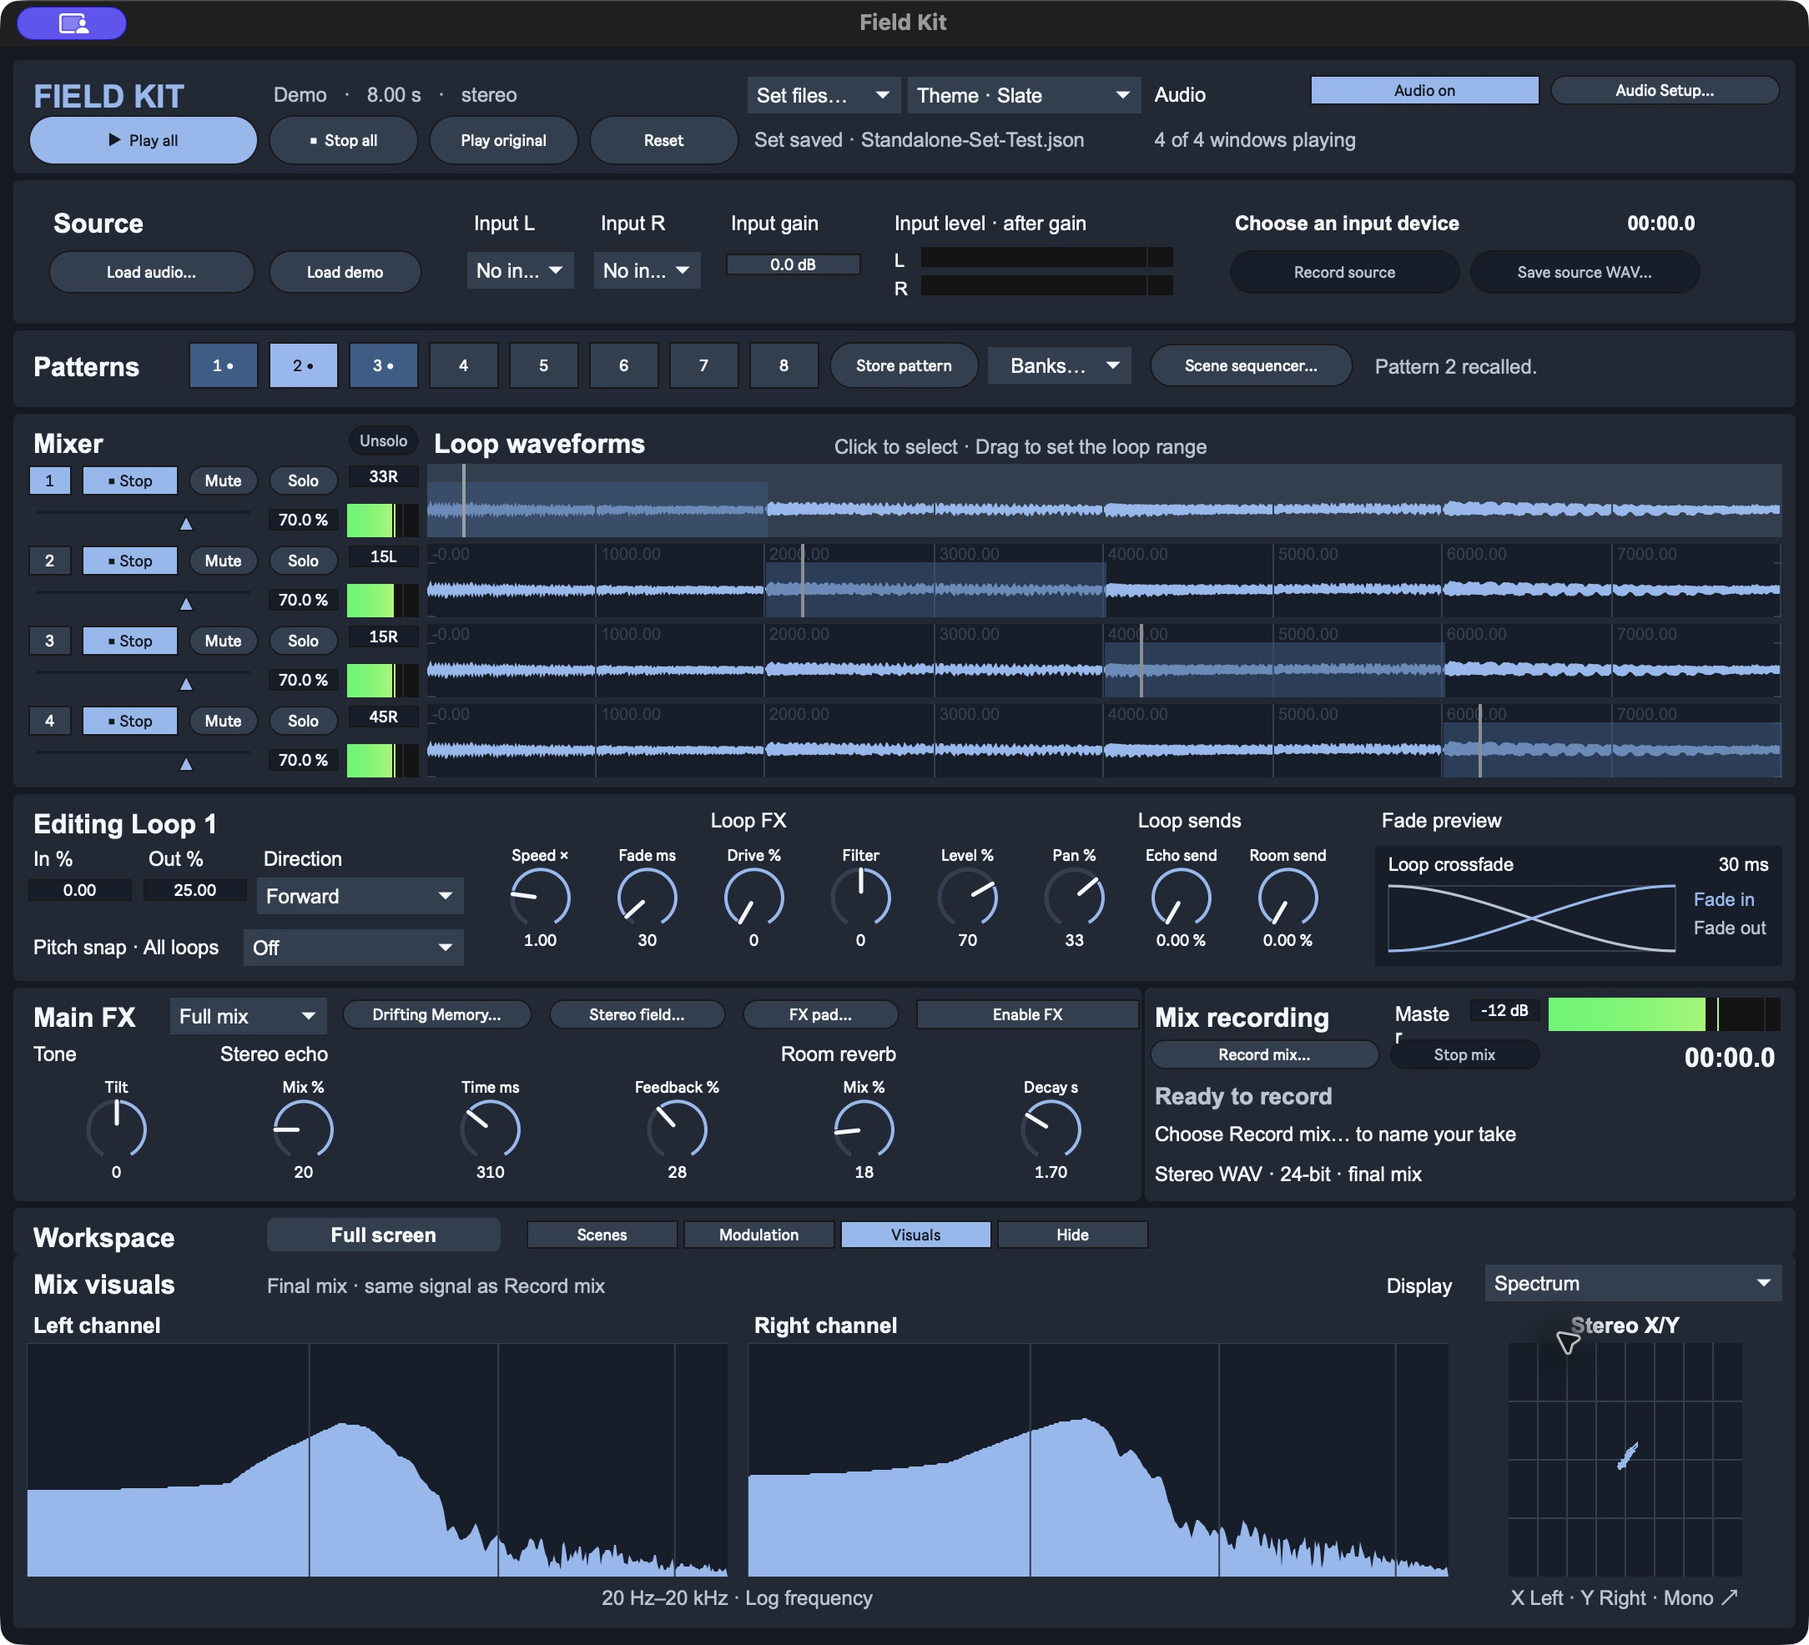
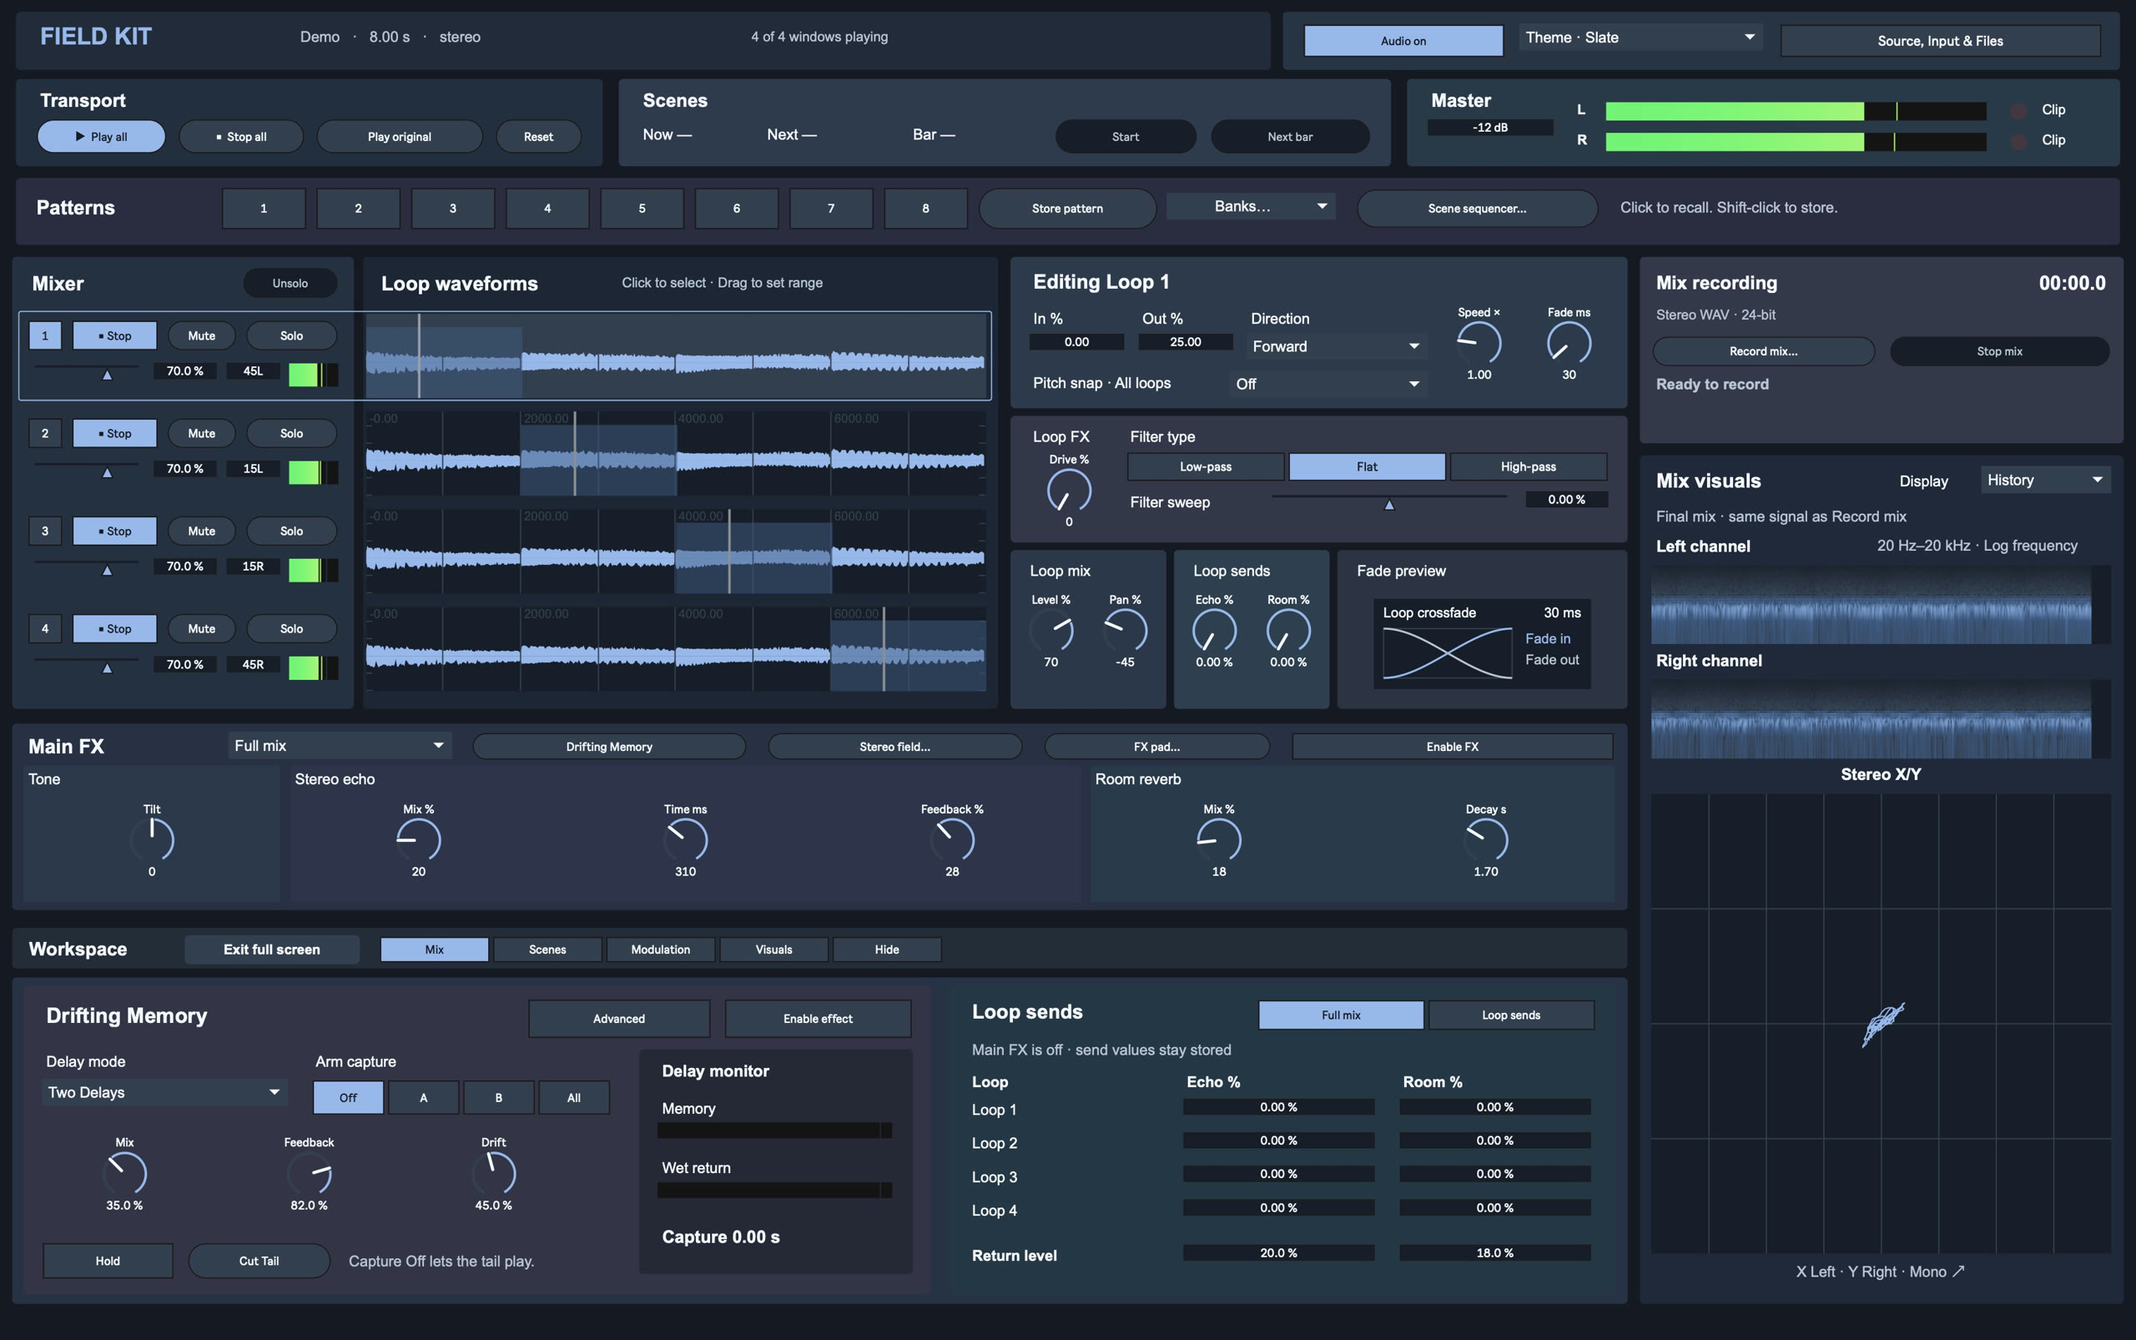
Document the Field Kit v0.8.0 release

diff --git a/README.md b/README.md
@@ -7,9 +7,11 @@ FIELD KIT is a Max instrument that turns an audio file or a live recording into 
 - **[Download the latest Max patch](https://github.com/modelcollapse/field-kit/releases/latest/download/field-kit-max.zip).** Unzip it and double-click **Open FIELD KIT.maxpat** in Max 9. **START HERE.txt** has the quick instructions. Keep **Support** and the companion Max patches beside the launcher.
 - **[Download the latest standalone macOS app](https://github.com/modelcollapse/field-kit/releases/latest/download/field-kit-macos.zip).** Unzip it and open **Field Kit.app**. Max is not required.
 
-The v0.7.0 standalone is ad hoc signed and is not notarized by Apple. macOS may block the first launch of a browser download. [Apple’s explanation of first launch alerts](https://support.apple.com/en-us/102445). [See the standalone running the demo with live Spectrum and Stereo X/Y](docs/screenshots/field-kit-standalone.jpg).
+The v0.8.0 standalone includes Apple silicon and Intel binaries. It is ad hoc signed and has no Apple notarization. macOS may show a first launch alert. [Apple’s explanation of first launch alerts](https://support.apple.com/en-us/102445).
 
-[See what's new in v0.7.0](CHANGELOG.md).
+[See what's new in v0.8.0](CHANGELOG.md).
+
+![Field Kit standalone in full screen with four loops playing, the docked loop editor, and live stereo visuals beside the mix recorder](docs/screenshots/field-kit-standalone.jpg)
 
 The eight-second demo loads on startup. Click **Play all** to turn on audio and start the four loops, or click one window's play button to hear it on its own. Open **Source, Input & Files** and choose **Load audio…** to load a sample and start its four loops as soon as the file is ready. The same drawer holds audio setup, source recording, and Set files. **Enable audio** starts the engine without starting playback.
 
@@ -17,13 +19,15 @@ Choose **Slate**, **Moss**, or **Ember** from the **Theme** menu in the header. 
 
 In the selected loop editor, choose **Low-pass** to cut highs, **High-pass** to cut lows, or **Flat** to center the filter. Switch between Low-pass and High-pass to keep the same strength, or drag **Filter sweep** for a continuous move through all three. Patterns, Sets, and LFO routes still use each loop’s filter sweep.
 
-![Field Kit playing four demo loops, with the selected loop's fade preview above the final mix spectrograms and stereo scope](docs/screenshots/field-kit-overview.png)
+![The windowed Mix workspace with four demo waveforms, the selected loop editor, Main FX, mix recording, and Drifting Memory](docs/screenshots/field-kit-overview.png)
 
 ## Record a source
 
 1. Open **Source, Input & Files**, select your interface in **Audio Setup…**, and click **Enable audio**. In **Input**, choose the left and right channels. Select the same channel on both sides for a mono source.
 2. Set the linked input gain from −60 to +18 dB. It starts at 0 dB. The two peak meters show the levels after gain, with peak hold and a red overload indicator.
 3. Click **Record source** to capture up to 60 seconds. The red **RECORDING** badge and timer show when audio is being captured. **Stop source** loads the take into all four loops. Use **Save source WAV…** before saving a Set that uses the take or replacing the source.
+
+![The expanded Source, Input & Files drawer in the full-screen workspace](docs/screenshots/field-kit-source-drawer.jpg)
 
 ## Play and shape the loops
 
@@ -61,7 +65,7 @@ The scene clock controls when patterns change. Set the tempo and meter before yo
 
 The scene strip at the top, between **Transport** and **Master**, shows the current scene, the next playable scene, and progress through the current scene’s bars. Use **Start** or **Stop** and **Next bar** directly from the strip.
 
-![The scene sequencer running at 112 BPM with four steps lasting four or eight bars each](docs/screenshots/field-kit-scenes.png)
+![The scene sequencer running three four-bar steps at 112 BPM, with the current scene, next scene, and bar shown above the mixer](docs/screenshots/field-kit-scenes.png)
 
 Use the workspace selector to switch between **Mix**, **Scenes**, **Modulation**, and **Visuals**, or **Hide** to collapse the lower panel. **Mix** opens by default. On wide displays, **Full screen** puts **Mix recording** and **Mix visuals** in a right column that stays visible as you switch workspaces. Select **Visuals** there to collapse the lower panel and focus on the analyzers.
 
@@ -69,13 +73,13 @@ Use the workspace selector to switch between **Mix**, **Scenes**, **Modulation**
 
 ## Patch modulation
 
-Choose **LFO 1–8** from the dropdown and set its rate and shape. Choose a loop to modulate its range, speed, direction, crossfade, drive, filter, level, pan, or Echo and Room sends. Choose **Global** for master level, input gain, Main FX, and Drifting Memory. Pick a destination, then turn **Depth** or click **Add route** to start at +25%. Negative depth inverts the LFO. The **active routes** menu jumps to a route for the selected LFO. **Applied value** shows what the destination receives while audio is on.
+Each of the eight LFOs can reach any of the 66 destinations. Choose a loop to modulate its range, speed, direction, crossfade, drive, filter, level, pan, or Echo and Room sends. Choose **Global** for master level, input gain, Main FX, and Drifting Memory. Pick a destination, then turn **Depth** or click **Add route** to start at +25%. Negative depth inverts the LFO. The **active routes** menu jumps to a route for the selected LFO. **Applied value** shows what the destination receives while audio is on.
 
 In **Loop sends** mode, the per-loop send routes control which loops feed Echo and Room. In Drifting Memory, the HPF and LPF routes take effect in **Sweep**, and the timing routes take effect in **Rhythmic**. Older Sets and pattern banks keep their existing LFO assignments when opened.
 
 The lower-left graph shows one cycle of the selected LFO’s shape. Choose **Breakpoint** or click **Use curve** to edit that LFO’s custom curve. Click to add a point, drag to move it, or Shift-click to delete it. Each LFO keeps its curve when you switch shapes. The graph on the right shows the live signal when audio is on.
 
-![The modulation patchbay with a sine LFO routed to Loop 1's start and live feedback](docs/screenshots/field-kit-modulation.png)
+![A sine LFO routed to Global Drift mix at +25% depth with a live Applied value and signal graph](docs/screenshots/field-kit-modulation.png)
 
 ## Process and capture
 
@@ -85,7 +89,7 @@ During loop playback, click **Enable FX** to turn on tone, stereo echo, and room
 
 Open **FX pad…** and use the **X** and **Y** menus to pair Tone tilt, Echo mix, or Room mix. X starts on Echo mix and Y starts on Room mix. Picking the other axis’s effect swaps the pair. Drag right or up to increase the assigned value. Tone tilt moves from dark through neutral to bright. The pad and dials stay in sync.
 
-Click **Record**, drag across the FX pad, and release. **Play** loops the gesture using the effect pair you recorded. **Stop** holds the current values and **Clear** erases the gesture. Turn on **Enable FX** in the pad or the Main FX header to hear it. Both buttons control the same Tone, Echo, and Room switch. Gestures in both pads stay available while the patch is open. **Stop all**, resetting, or recalling a pattern stops gesture playback; Sets and patterns save control values but do not store gestures.
+Click **Record**, drag across the FX pad, and release. **Play** loops the gesture using the effect pair you recorded. **Stop** holds the current values and **Clear** erases the gesture. Turn on **Enable FX** in the pad or the Main FX header to hear it. Both buttons control the same Tone, Echo, and Room switch. **Close** hides either pad and lets its gestures keep playing. **Stop all**, resetting, or recalling a pattern stops gesture playback. Sets and patterns save control values. Gestures stay in the current session.
 
 | Stereo field | FX pad |
 | --- | --- |
@@ -96,6 +100,8 @@ Click **Record**, drag across the FX pad, and release. **Play** loops the gestur
 Click **Advanced** to show the **Time**, **Texture**, and **I/O** controls beside Drifting Memory. The **Drifting Memory** shortcut in Main FX opens the same view. Click **Hide advanced** to bring back Loop sends. The delay and its capture continue while you switch views.
 
 Use **Hold** to freeze what’s in memory. **Cut Tail** clears the captured audio and turns capture off while the dry mix keeps playing. To capture again, release **Hold** if it’s on and choose a capture bank.
+
+![Drifting Memory with live Memory and Wet return meters, Hold and Cut Tail, and the Advanced Time page](docs/screenshots/field-kit-drifting-memory.png)
 
 With audio enabled, click **Record mix…** and choose where to save the take. The red **RECORDING** indicator and timer show when capture is active. The recorder writes the final mix as a 24-bit stereo WAV at the audio device's current sample rate. **Stop all** lets the effects decay. Click **Stop mix** when the take is finished.
 
@@ -109,12 +115,13 @@ To build the standalone app, run `python3 scripts/prepare_max_project.py max bui
 
 See the [release checklist](docs/releasing.md) for building, testing, and publishing both downloads and their screenshots.
 
-Run the playback startup, input recording, pattern bank, curve editing, and Set writer tests with Node.js.
+Run the playback startup, input recording, pattern bank, scene timing, curve editing, and Set writer tests with Node.js.
 
 ```sh
 node tests/source_launch_verify.cjs
 node tests/input_record_verify.cjs
 node tests/pattern_bank_verify.cjs
+node tests/sequence_mix_verify.cjs
 node tests/curve_fade_verify.cjs
 node tests/set_writer_verify.cjs
 ```

diff --git a/docs/releasing.md b/docs/releasing.md
@@ -30,7 +30,7 @@ Ship the Max 9 patch and the standalone macOS app on the same GitHub release. Bu
    ```sh
    mkdir -p build/standalone-runtime
    cp build/standalone/{patchers,code,media}/* build/standalone-runtime/
-   bash scripts/package_macos_release.sh 0.7.0 \
+   bash scripts/package_macos_release.sh VERSION \
      "/path/to/verified-runtime.zip" "build/Field Kit.mxf" \
      build/standalone-runtime build/field-kit-macos.zip
    ```
@@ -42,12 +42,12 @@ Ship the Max 9 patch and the standalone macOS app on the same GitHub release. Bu
 
 Open **Open FIELD KIT.maxpat** from a clean extraction in Max. Then quit Max and launch **Field Kit.app** from its own clean extraction. Use the bundled demo and a disposable folder for recordings, Sets, and Banks.
 
-- [ ] Both builds launch to the presentation, load the demo, and run without missing files or startup errors. **Play all**, per-loop play/stop, **Play original**, and **Stop all** behave as expected. Verify both audio output channels on the available device, including headphones when present.
+- [ ] Both builds launch to the presentation, load the demo, and run without missing files or startup errors. **Play all**, per-loop play/stop, **Play original**, and **Stop all** behave as expected. Open a different WAV with **Load audio…** and confirm all four loops start when it is ready. Verify both audio output channels on the available device, including headphones when present.
 - [ ] Select a loop from its waveform and strip. Edit its bounds, direction, speed, and fade. Verify the fade preview, pitch snap, direct filter type selection and sweep, mixer level and pan, mute/unmute, and solo/unsolo. Recall a pattern to check that the selected loop shows its saved filter type and strength.
 - [ ] Open and close **Source, Input & Files** in windowed and full screen. Check that Transport, Scenes, and Master stay at the top and the selected loop editor stays beside the waveforms. Use **Audio Setup…** to select a real input, check channel selection, gain and meters, then record a source and save its WAV. Record a stereo mix WAV and check that it matches the separate L/R master meters. Verify that clipping one channel lights only its indicator.
-- [ ] Exercise both Main FX modes. Check that the **Mix** send matrix, loop editor, and Main FX controls agree. Open Drifting Memory's **Advanced** drawer from Mix and from Main FX. Check its three pages, pattern recall, and the return to Loop sends while delay audio continues. Check that **Hold** preserves memory and **Cut Tail** clears the wet signal and turns capture off while dry audio continues. Open **Stereo field** and **FX pad** and verify manual movement, FX axis selection, and record/play/stop/clear on both pads.
+- [ ] Exercise both Main FX modes. Check that the **Mix** send matrix, loop editor, and Main FX controls agree. Open Drifting Memory's **Advanced** drawer from Mix and from Main FX. Check its three pages, pattern recall, and the return to Loop sends while delay audio continues. Check that **Hold** preserves memory and **Cut Tail** clears the wet signal and turns capture off while dry audio continues. Open **Stereo field** and **FX pad** and verify manual movement, FX axis selection, and record/play/stop/clear on both pads. Enable FX in the pad and confirm Main FX stays in sync after closing and reopening it.
 - [ ] Store and recall patterns. Run a scene sequence with different bar lengths, **Next bar**, and **Repeat**. Confirm that the scene strip in Mix shows the same current scene, next scene, and bar count and can control the sequence. Save and reopen a Set and a Bank, and check an older fixture if available.
-- [ ] Route an LFO and confirm the target responds. Check Mix, Scenes, Modulation, Visuals, Hide, the section shades in all three themes, and entering and exiting full screen. Confirm Master and Mix recording have visibly separate backgrounds and the selected loop stands out across the mixer and waveform. Check live signal in both History and Spectrum and on the stereo scope.
+- [ ] Route LFOs to a loop, a loop send, Main FX, and Drifting Memory and confirm the effective value and audio respond. Check Mix, Scenes, Modulation, Visuals, Hide, the section shades in all three themes, and entering and exiting full screen. Confirm Master and Mix recording have visibly separate backgrounds and the selected loop stands out across the mixer and waveform. Check live signal in both History and Spectrum and on the stereo scope.
 - [ ] Record which macOS version, chip, and audio devices were tested and any limits of the verification. Resolve regressions before publishing.
 
 ## Review screenshots and publish

diff --git a/CHANGELOG.md b/CHANGELOG.md
@@ -1,6 +1,17 @@
-# Field Kit v0.7.0
+# Field Kit changelog
 
-## What’s new
+## v0.8.0
+
+- The loop editor sits beside the waveforms. Transport, scene cues, and Master stay at the top, and Source, Input & Files opens as a drawer. Slate, Moss, and Ember use distinct shades for each section.
+- On wide displays, full screen moves the mix recorder, both channel visuals, and the square stereo scope to the right. Master shows independent left and right meters and clip lights.
+- Drifting Memory sits in Mix with live Memory and Wet return meters, Hold, Cut Tail, and an Advanced drawer. Edit per-loop Echo and Room sends in the Mix matrix or the selected loop editor.
+- Choose Low-pass, Flat, or High-pass in the loop editor. Loading a new audio file starts all four loops as soon as it is ready.
+- Enable Main FX directly in the FX pad. Both gesture pads have a Close button and can continue playing gestures while closed.
+- Eight LFOs reach 66 destinations, including eight per-loop sends and 14 Drifting Memory controls. Older Sets and Banks keep their saved assignments.
+
+## v0.7.0
+
+### What’s new
 
 - **Performance workspace.** Switch between Scenes, Modulation, and Visuals, or choose Hide to collapse the lower panel. Use Full screen to fit the workspace to the display. Slate, Moss, and Ember are available from the Theme menu.
 - **Scene sequencer.** Arrange up to eight stored patterns with a tempo, beats per bar, and a length for each step. Next bar advances at the next bar line, and Repeat loops the sequence.
@@ -10,7 +21,7 @@
 - **Gesture pads.** Record and repeat pan and level movement for each loop in Stereo field. In FX pad, assign Tone tilt, Echo mix, or Room mix to the two axes and record the movement of that pair.
 - **Source and mix recording.** Record source captures an input take for the four loops. Record mix writes the final stereo output as a 24-bit WAV.
 
-## Get started
+### Get started
 
 Unzip the Max download and open **Open FIELD KIT.maxpat** in Max 9. Keep the Support folder and companion patches beside the launcher. Click **Play all** to hear the demo.
 
